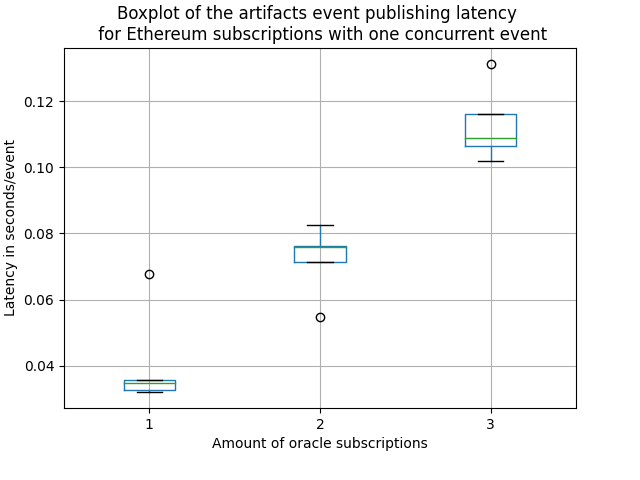
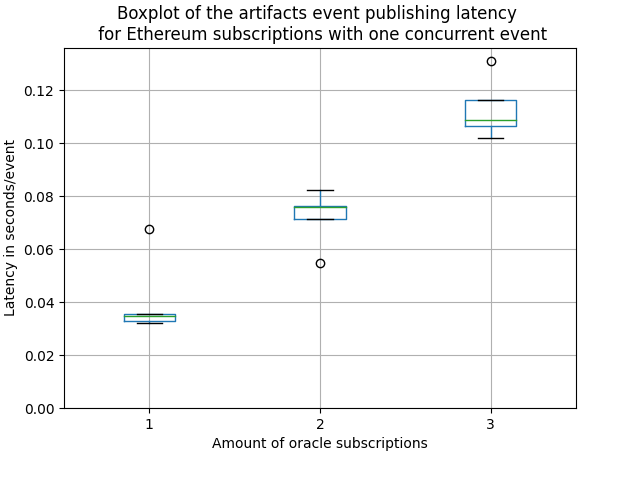
update graphs

diff --git a/caseStudies/visualizePerformanceTestResults.py b/caseStudies/visualizePerformanceTestResults.py
@@ -11,10 +11,10 @@ file_paths = [
     "inboundOraclePerformanceTests/hyperledger3SubscriptionDifferentChoice.csv",
     "inboundOraclePerformanceTests/ethereum1subscription.csv",
     "inboundOraclePerformanceTests/ethereum2subscription.csv",
-    "inboundOraclePerformanceTests/ethereum3subscription.csv"
+    "inboundOraclePerformanceTests/ethereum3subscription.csv",
     "inboundOraclePerformanceTests/ethereum1subscriptionDifferentChoice.csv",
     "inboundOraclePerformanceTests/ethereum2subscriptionDifferentChoice.csv",
-    "inboundOraclePerformanceTests/ethereum3subscriptionDifferentChoice.csv"
+    "inboundOraclePerformanceTests/ethereum3subscriptionDifferentChoice.csv",
 ]
 
 def read_merged_files(all_files):
@@ -120,7 +120,7 @@ def main():
     plt.ylim(ymin=0)
     plt.savefig(file_path[:-4]+"Latency.png")
     
-    df = read_merged_files(file_paths[6:10])
+    df = read_merged_files(file_paths[6:9])
     df = df[df["parallel events"] == 1]
     df.boxplot(column="latency", by="subscriptions")
     plt.title("Boxplot of the artifacts event publishing latency \n for Ethereum subscriptions with one concurrent event")
